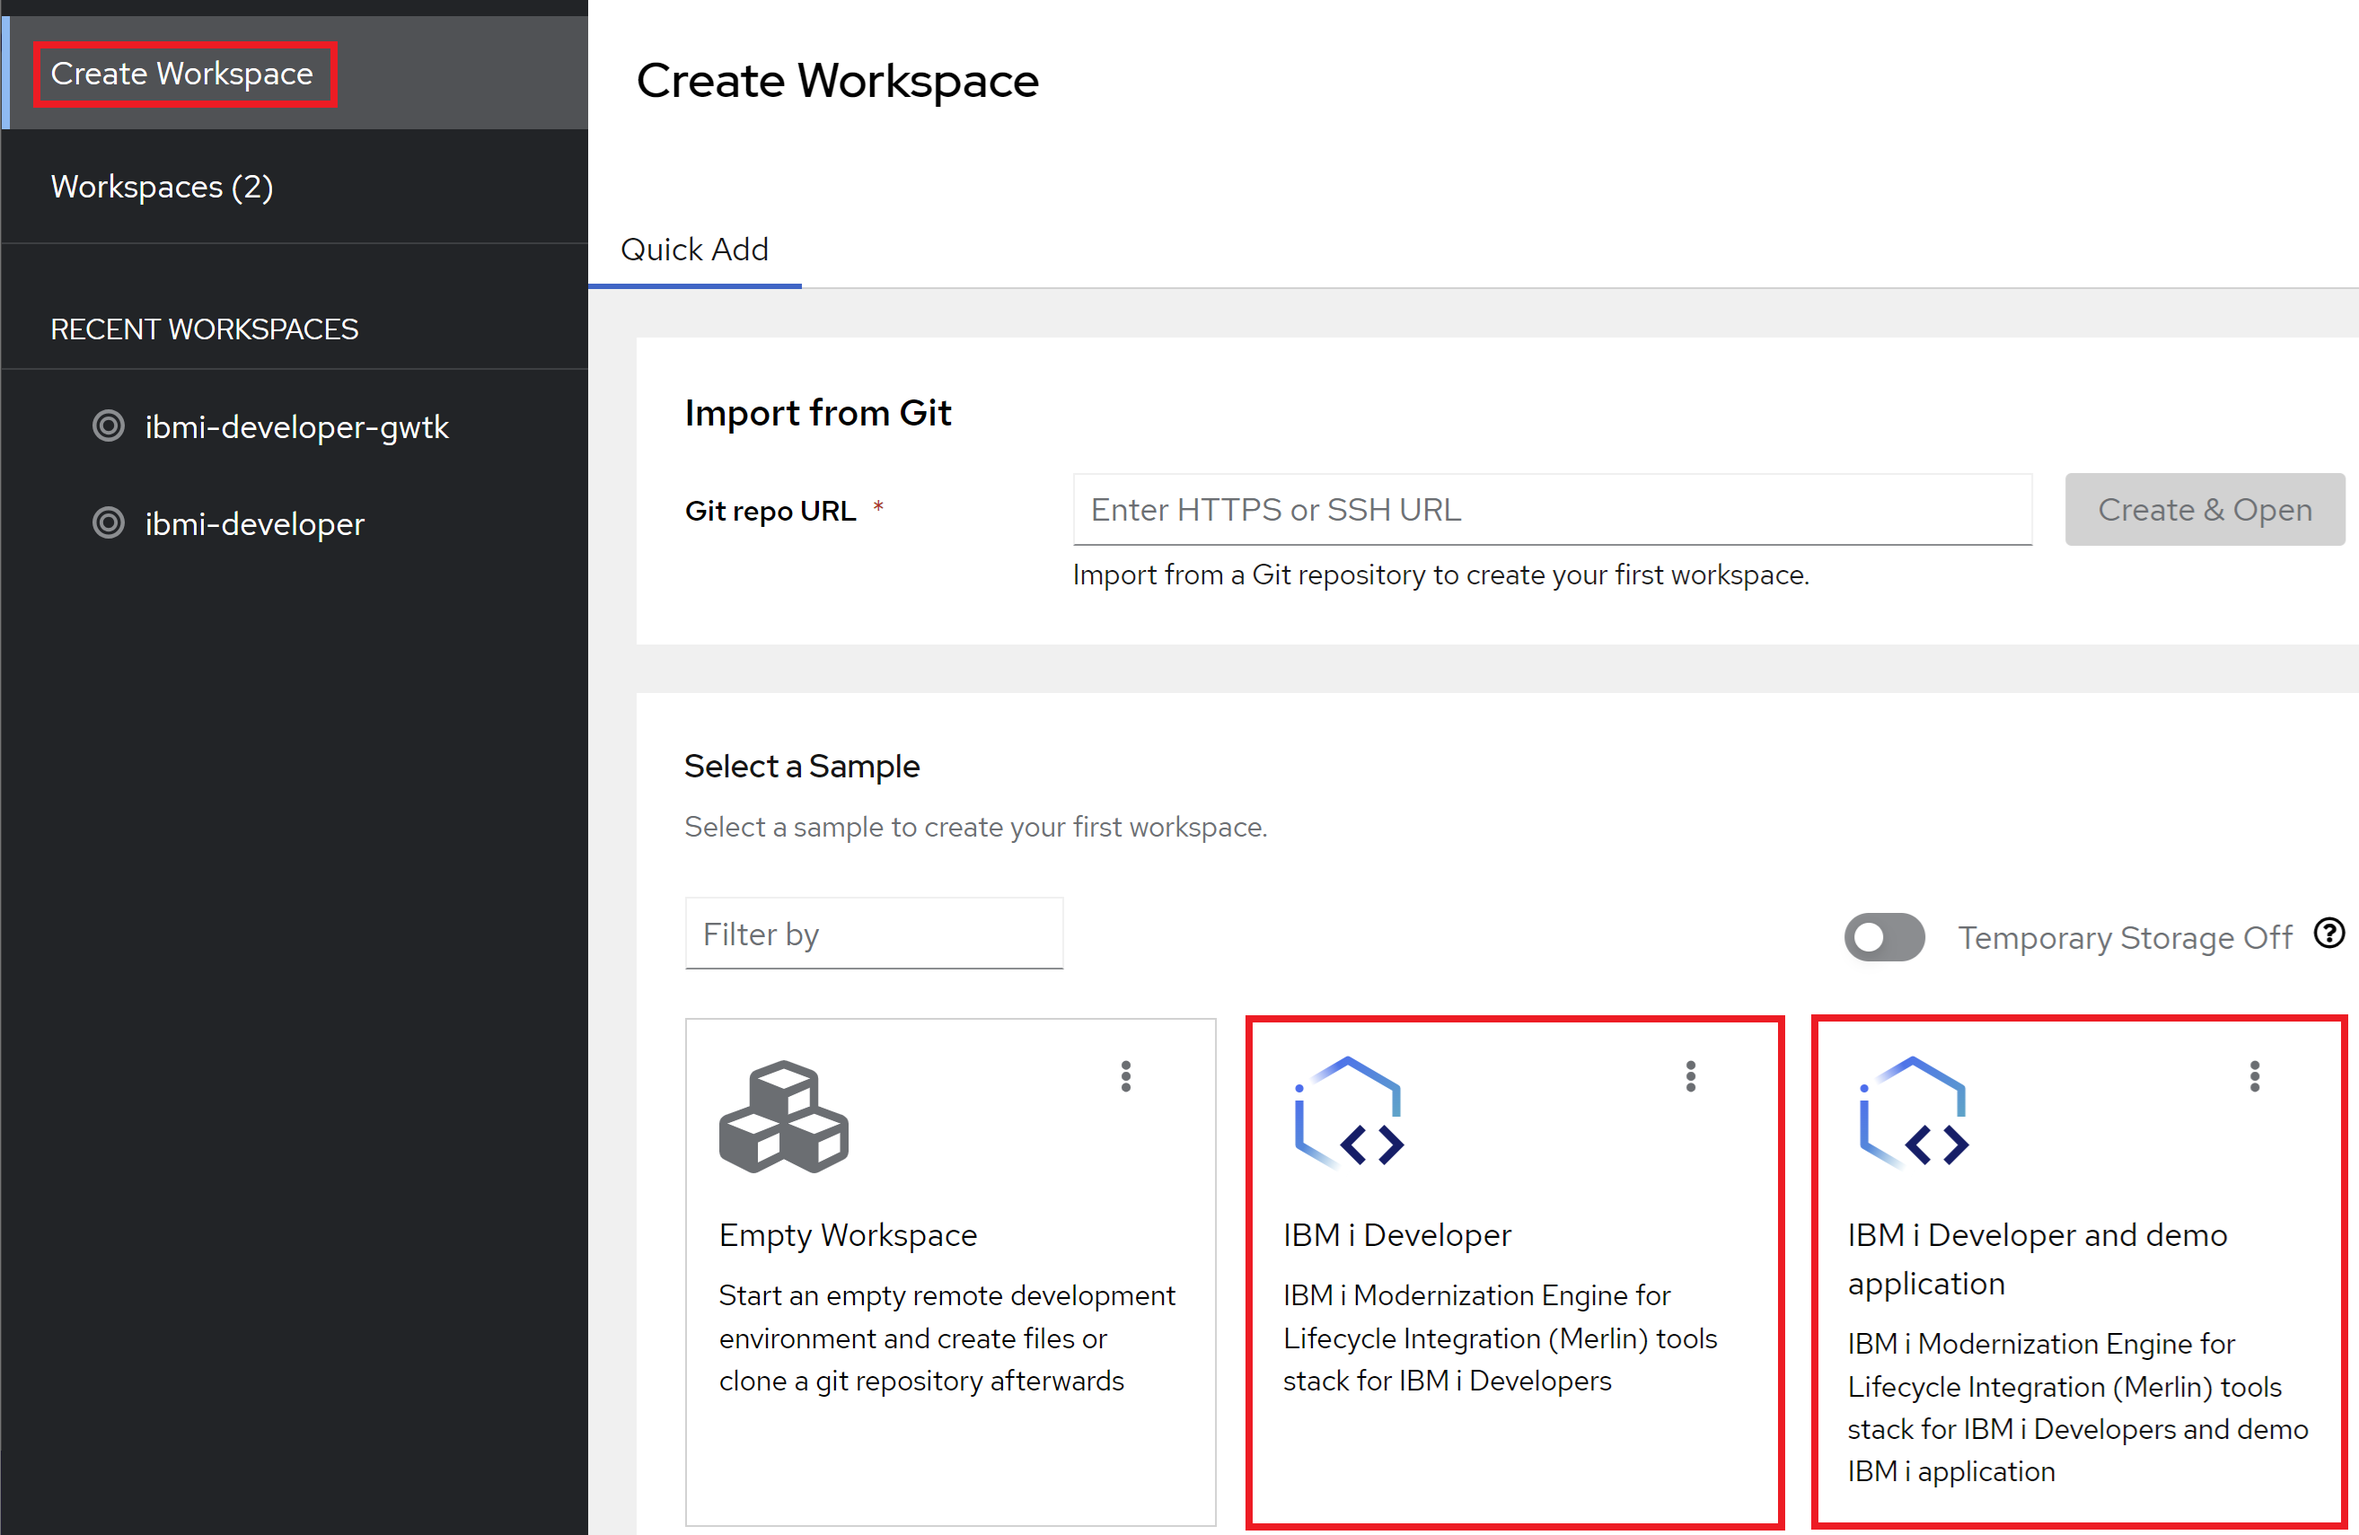
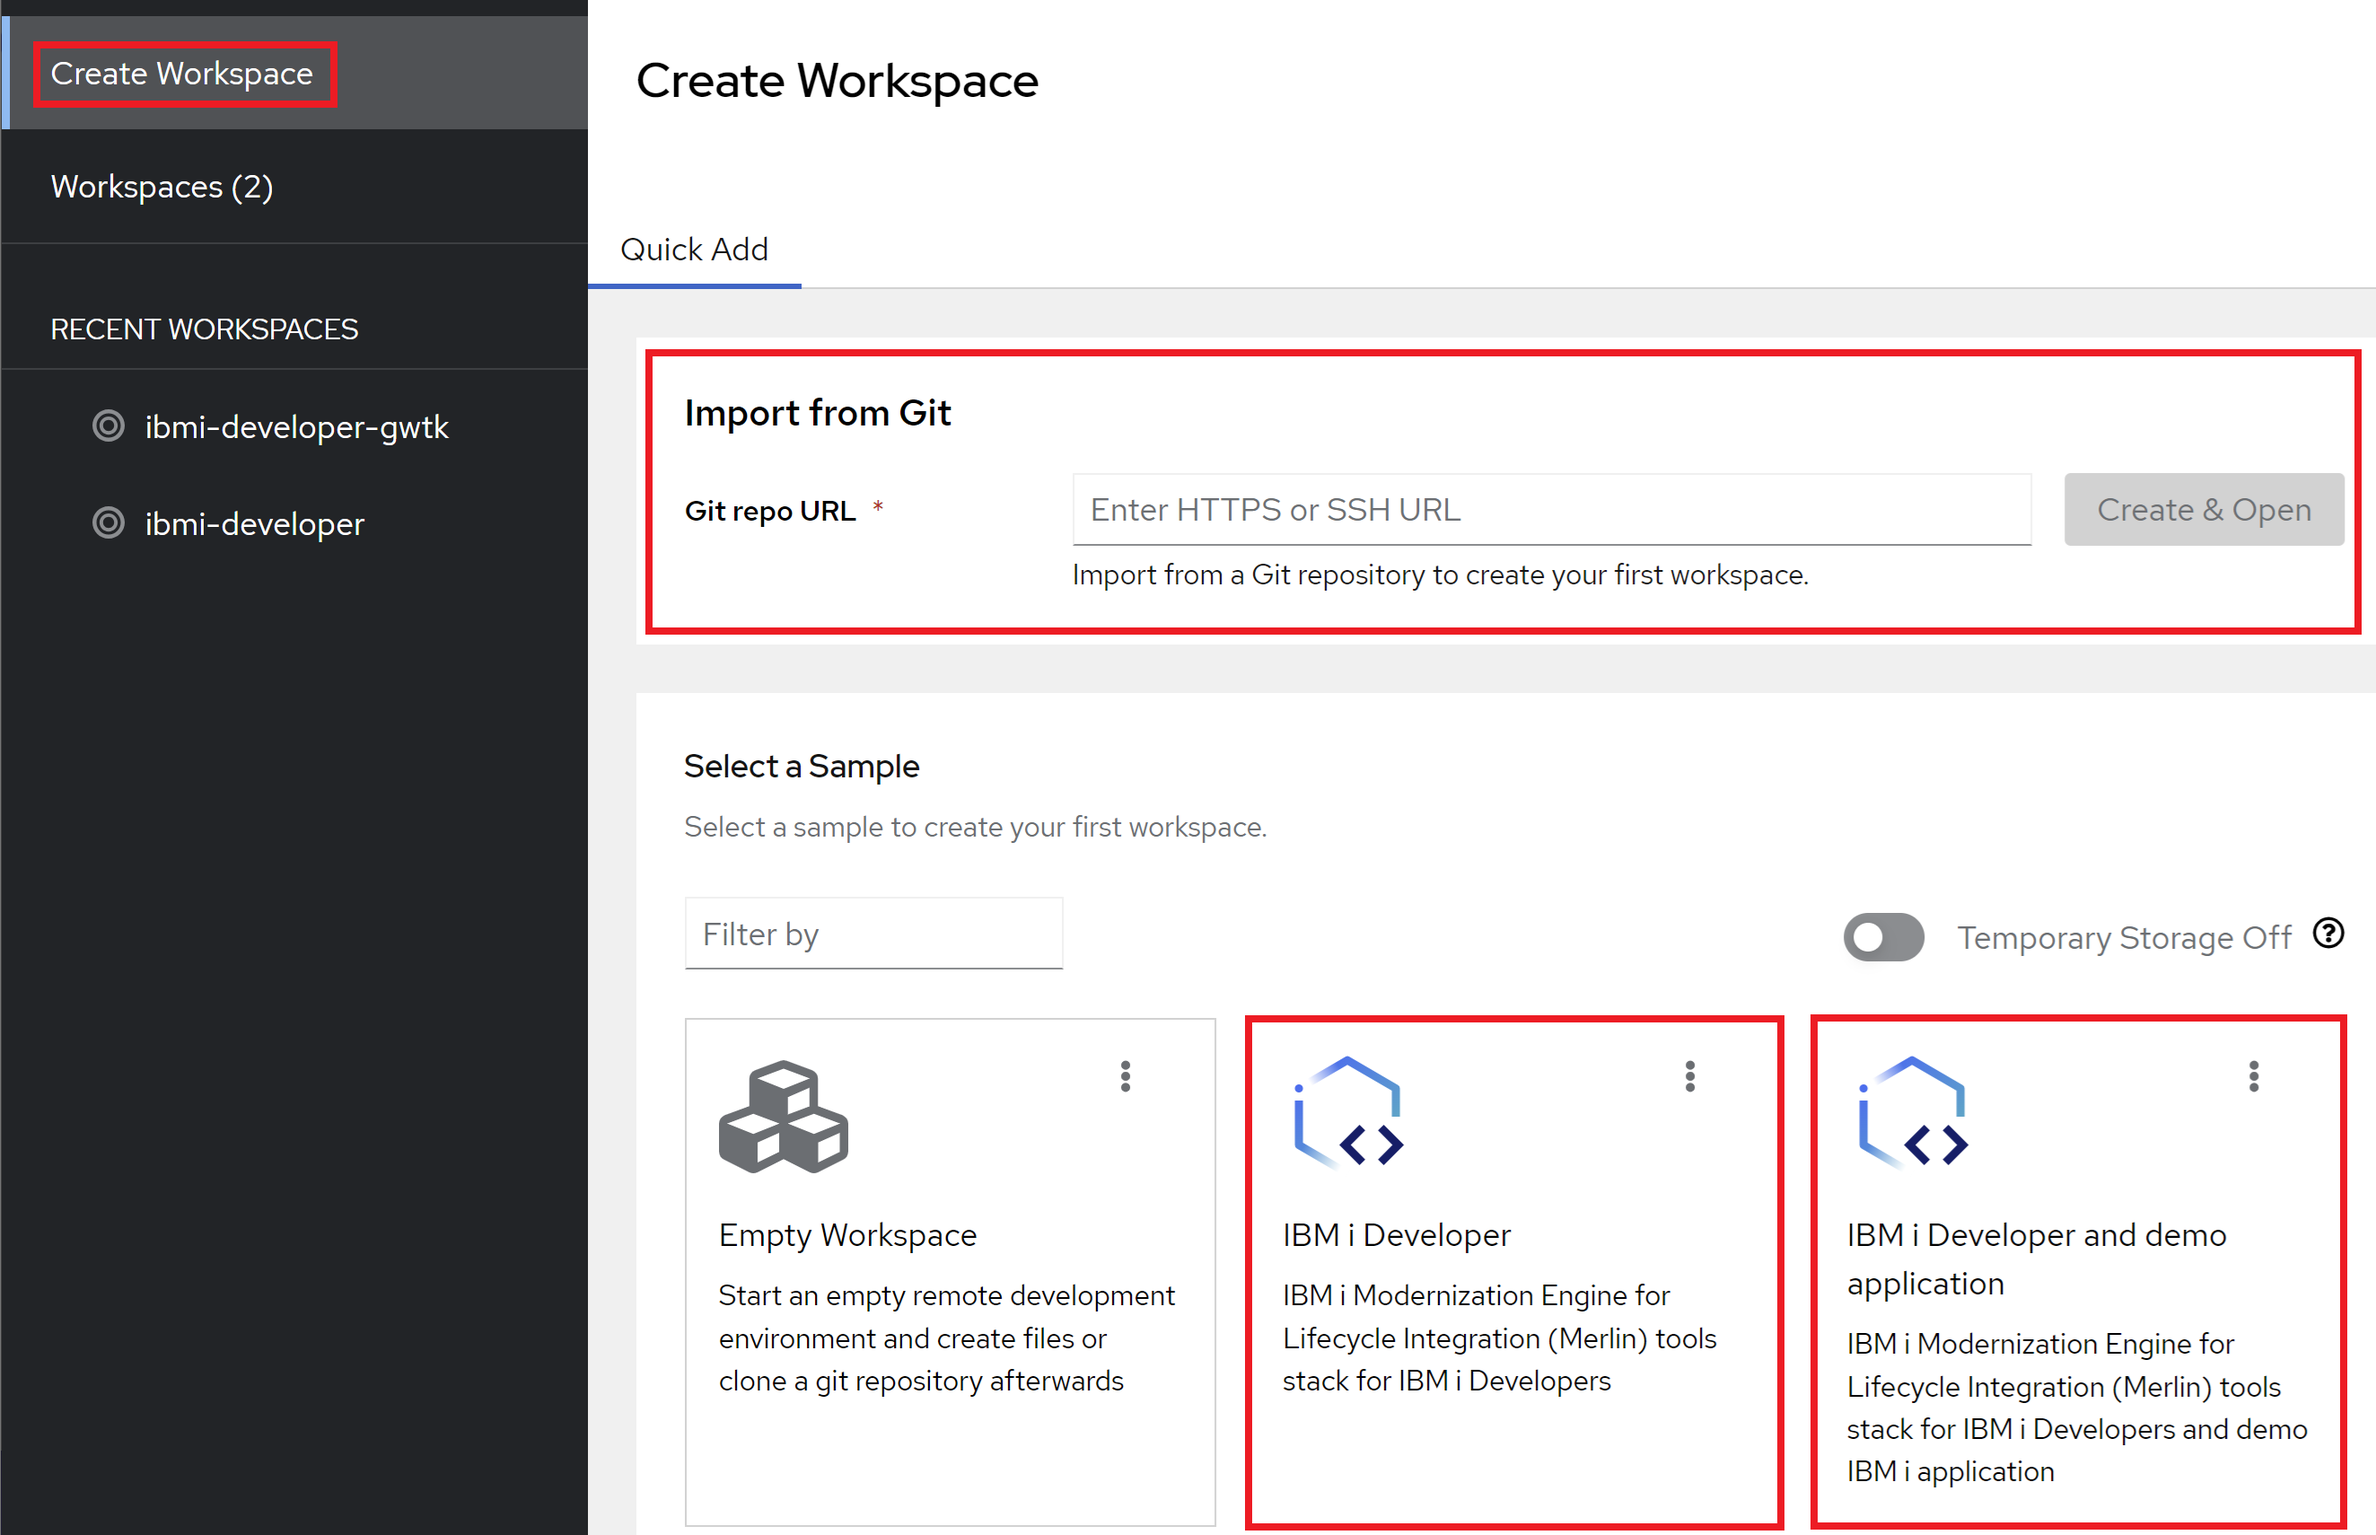
add import from git description

diff --git a/docs/guides/ide/overview.md b/docs/guides/ide/overview.md
@@ -5,7 +5,9 @@ The IBM i Developer Dashboard allows the user to create, start, manage, and dele
 
 ![Dashboard](../../images/guides/ideDashboard.png ':size=800')
 
-To create a new `IBM i Developer Workspace`, click on the **IBM i Developer** or **IBM i Developer and demo application** tool stack from the **Create Workspace** page. Other tool stacks are also available.
+To create a new `IBM i Developer Workspace`, click on the **IBM i Developer** or **IBM i Developer and demo application** tool stack from the **Create Workspace** page. Other tool stacks are also available. If you would like to create a new `IBM i Developer Workspace` workspace with a Git repository already imported, use the `Import from Git` feature by pasting your Git repo URL and clicking the **Create and Open** button.
+
+**Note:** If you would like to use an SSH URL when importing the Git repository, you must first create an SSH key in the [Credentials](./guides/platform/ManageCredential.md) page in Merlin.
 
 ![Create Workspace](../../images/guides/ideDashAddWorkspace.png ':size=800')
 
